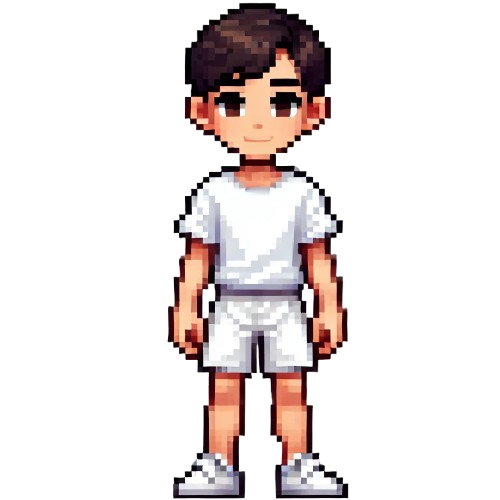
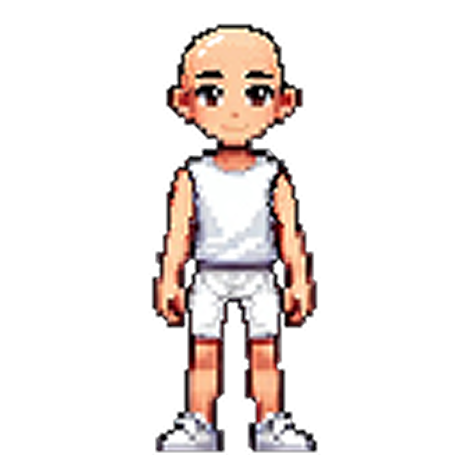
feat : 상/하의 입기 완료

Changed region(s): [[0.3077, 0.0, 0.7077, 1.0]]

diff --git a/html/dressup.html b/html/dressup.html
@@ -1,186 +1,194 @@
 <!DOCTYPE html>
 <html lang="ko">
-  <head>
-    <meta charset="UTF-8" />
-    <title>하금티 취준</title>
-    <style>
-      .container {
-        position: relative;
-        width: 400px;
-        height: 600px;
-        border: 1px solid #ccc;
-        background-color: #f9f9f9;
-        margin-bottom: 20px;
-      }
-      .character {
-        width: 100%;
-        height: 100%;
-      }
-      /* 드랍 존: 캐릭터 컨테이너 내부에 상의와 하의 영역을 고정 */
-      .drop-zone {
-        position: absolute;
-        width: 100%;
-        height: 50%;
-        left: 0;
-      }
-      #dropZoneTop {
-        top: 0;
-      }
-      #dropZoneBottom {
-        top: 50%;
-      }
-      /* 드랍 영역 오버레이 (시각적 도움) */
-      .drop-zone-overlay {
-        position: absolute;
-        width: 100%;
-        height: 100%;
-        border: 2px dashed #ff0000;
-        box-sizing: border-box;
-        pointer-events: none;
-        opacity: 0.3;
-      }
-      .clothes-panel {
-        margin-top: 20px;
-      }
-      .clothes {
-        width: 100px;
-        cursor: grab;
-        margin-right: 10px;
-      }
-      /* 드랍된 의상 이미지 스타일 */
-      .dropped-clothes {
-        position: absolute;
-      }
-      .reset-button {
-        margin-top: 20px;
-        padding: 10px 20px;
-        font-size: 16px;
-        background-color: #ff6b6b;
-        color: white;
-        border: none;
-        border-radius: 5px;
-        cursor: pointer;
-      }
-      .reset-button:hover {
-        background-color: #ff5252;
-      }
-    </style>
-  </head>
-  <body>
-    <h1>하금티 면접 옷 입히기</h1>
-    <!-- 캐릭터 컨테이너 -->
-    <div class="container" id="characterContainer">
-      <img src="../assets/cloth/character.png" alt="캐릭터" class="character" />
-      <!-- 상의 드랍 존 (상단 고정 영역) -->
-      <div class="drop-zone" id="dropZoneTop" data-type="top">
-        <div class="drop-zone-overlay"></div>
-      </div>
-      <!-- 하의 드랍 존 (하단 고정 영역) -->
-      <div class="drop-zone" id="dropZoneBottom" data-type="bottom">
-        <div class="drop-zone-overlay"></div>
-      </div>
-    </div>
 
-    <!-- 의상 패널: 상의와 하의 이미지를 각각 지정 -->
-    <div class="clothes-panel">
-      <!-- 상의: shirt1.png, shirt2.png, ... -->
-      <img
-        src="../assets/cloth/shirt1.png"
-        alt="상의1"
-        class="clothes"
-        draggable="true"
-        data-type="top"
-      />
-      <img
-        src="../assets/cloth/shirt2.png"
-        alt="상의2"
-        class="clothes"
-        draggable="true"
-        data-type="top"
-      />
+<head>
+  <meta charset="UTF-8" />
+  <title>하금티 취준</title>
+  <style>
+    .container {
+      position: relative;
+      width: 400px;
+      height: 600px;
+      border: 1px solid #ccc;
+      background-color: #f9f9f9;
+      margin-bottom: 20px;
+    }
 
-      <!-- 하의: pants1.png, pants2.png, ... -->
-      <img
-        src="../assets/cloth/pants1.png"
-        alt="하의1"
-        class="clothes"
-        draggable="true"
-        data-type="bottom"
-      />
-      <img
-        src="../assets/cloth/pants2.png"
-        alt="하의2"
-        class="clothes"
-        draggable="true"
-        data-type="bottom"
-      />
-    </div>
+    .character {
+      position: absolute;
+      z-index: 0;
+    }
 
-    <!-- 초기화 버튼 추가 -->
-    <button class="reset-button" id="resetButton">초기화</button>
+    .clothes {
+      cursor: grab;
+      margin-right: 10px;
+    }
 
-    <script>
-      // 각 의상 이미지에 드래그 시작 이벤트 등록, src와 data-type을 함께 전달
-      const clothesItems = document.querySelectorAll(".clothes");
-      clothesItems.forEach((item) => {
-        item.addEventListener("dragstart", function (e) {
-          const data = {
-            src: e.target.src,
-            type: e.target.dataset.type,
-          };
-          e.dataTransfer.setData("application/json", JSON.stringify(data));
-        });
+    .clothes.dragging {
+      opacity: 0.5;
+    }
+
+    .clothes.dropped {
+      position: absolute;
+      transform: translateX(-50%);
+    }
+
+    .clothes.dropped.shirt1 {
+      top: 20%;
+      left: 61%;
+      z-index: 2;
+    }
+
+    .clothes.dropped.shirt2 {
+      top: 20%;
+      left: 59%;
+      z-index: 2;
+    }
+
+    .clothes.dropped.shirt3 {
+      top: 20%;
+      left: 58%;
+      z-index: 2;
+    }
+
+    .clothes.dropped.pants1 {
+      top: 43%;
+      left: 58%;
+      z-index: 1;
+    }
+
+    .clothes.dropped.pants2 {
+      top: 40%;
+      left: 57%;
+      z-index: 1;
+    }
+
+    .clothes.dropped.pants3 {
+      top: 42%;
+      left: 58%;
+      z-index: 1;
+    }
+
+    .clothes-panel {
+      margin-top: 20px;
+    }
+
+    .reset-button {
+      margin-top: 20px;
+      padding: 10px 20px;
+      font-size: 16px;
+      background-color: #ff6b6b;
+      color: white;
+      border: none;
+      border-radius: 5px;
+      cursor: pointer;
+    }
+
+    .reset-button:hover {
+      background-color: #ff5252;
+    }
+  </style>
+</head>
+
+<body>
+  <h1>하금티 취준</h1>
+  <div class="container" id="characterContainer">
+    <img src="../assets/cloth/character.png" alt="캐릭터" class="character" />
+  </div>
+
+  <div class="clothes-panel">
+    <h3>상의</h3>
+    <img src="../assets/cloth/shirt1.png" alt="상의1" class="clothes" draggable="true" />
+    <img src="../assets/cloth/shirt2.png" alt="상의2" class="clothes" draggable="true" />
+    <img src="../assets/cloth/shirt3.png" alt="상의3" class="clothes" draggable="true" />
+    <h3>하의</h3>
+    <img src="../assets/cloth/pants1.png" alt="하의1" class="clothes" draggable="true" />
+    <img src="../assets/cloth/pants2.png" alt="하의2" class="clothes" draggable="true" />
+    <img src="../assets/cloth/pants3.png" alt="하의3" class="clothes" draggable="true" />
+  </div>
+
+  <button class="reset-button" id="resetButton">초기화</button>
+
+  <script>
+    const clothesItems = document.querySelectorAll('.clothes');
+    const container = document.querySelector('.container');
+    const resetButton = document.getElementById('resetButton');
+
+    // 초기화 버튼 이벤트 리스너
+    resetButton.addEventListener('click', () => {
+      const droppedClothes = container.querySelectorAll('.dropped');
+      droppedClothes.forEach(clothes => clothes.remove());
+    });
+
+    clothesItems.forEach(clothes => {
+      clothes.addEventListener('dragstart', (e) => {
+        clothes.classList.add('dragging');
       });
 
-      // 각 드랍 존에 드래그 오버 및 드랍 이벤트 처리
-      const dropZones = document.querySelectorAll(".drop-zone");
-      dropZones.forEach((zone) => {
-        zone.addEventListener("dragover", function (e) {
-          e.preventDefault();
-        });
-
-        zone.addEventListener("drop", function (e) {
-          e.preventDefault();
-          const data = JSON.parse(e.dataTransfer.getData("application/json"));
-          // 의상의 타입과 드랍 존의 타입이 일치하면
-          if (data.type === zone.dataset.type) {
-            // 기존에 배치된 의상이 있다면 삭제
-            const existing = zone.querySelector(".dropped-clothes");
-            if (existing) {
-              existing.remove();
-            }
-            // 새 의상 이미지 생성
-            const newClothes = document.createElement("img");
-            newClothes.src = data.src;
-            newClothes.classList.add("dropped-clothes");
-            // 고정된 위치에 배치: 상의는 상단, 하의는 하단에 중앙 정렬
-            if (zone.dataset.type === "top") {
-              newClothes.style.top = "20px";
-              newClothes.style.left = "50%";
-              newClothes.style.transform = "translateX(-50%)";
-            } else if (zone.dataset.type === "bottom") {
-              newClothes.style.bottom = "20px";
-              newClothes.style.left = "50%";
-              newClothes.style.transform = "translateX(-50%)";
-            }
-            zone.appendChild(newClothes);
-          } else {
-            alert(
-              "이 영역에는 " +
-                (zone.dataset.type === "top" ? "상의" : "하의") +
-                "만 배치할 수 있습니다."
-            );
-          }
-        });
+      clothes.addEventListener('dragend', (e) => {
+        clothes.classList.remove('dragging');
       });
+    });
 
-      // 초기화 버튼 기능 구현
-      document
-        .getElementById("resetButton")
-        .addEventListener("click", function () {
-          const droppedClothes = document.querySelectorAll(".dropped-clothes");
-          droppedClothes.forEach((clothes) => clothes.remove());
-        });
-    </script>
-  </body>
+    container.addEventListener('dragover', (e) => {
+      e.preventDefault();
+    });
+
+    container.addEventListener('drop', (e) => {
+      e.preventDefault();
+
+      // 드롭된 위치가 컨테이너 내부인지 확인
+      const rect = container.getBoundingClientRect();
+      if (e.clientX >= rect.left && e.clientX <= rect.right &&
+        e.clientY >= rect.top && e.clientY <= rect.bottom) {
+
+        // 드래그된 의상 요소 찾기
+        const draggedClothes = document.querySelector('.dragging');
+        if (!draggedClothes) return;
+
+        // 새로운 이미지 요소 생성
+        const newClothes = document.createElement('img');
+        newClothes.src = draggedClothes.src;
+        newClothes.classList.add('clothes', 'dropped');
+
+        // 의상 종류에 따라 다른 클래스 추가
+        if (draggedClothes.src.includes('shirt1')) {
+          newClothes.classList.add('shirt1');
+          // 기존 상의 제거
+          const existingShirts = container.querySelectorAll('.dropped.shirt1, .dropped.shirt2, .dropped.shirt3');
+          existingShirts.forEach(shirt => shirt.remove());
+        } else if (draggedClothes.src.includes('shirt2')) {
+          newClothes.classList.add('shirt2');
+          // 기존 상의 제거
+          const existingShirts = container.querySelectorAll('.dropped.shirt1, .dropped.shirt2, .dropped.shirt3');
+          existingShirts.forEach(shirt => shirt.remove());
+        } else if (draggedClothes.src.includes('shirt3')) {
+          newClothes.classList.add('shirt3');
+          // 기존 상의 제거
+          const existingShirts = container.querySelectorAll('.dropped.shirt1, .dropped.shirt2, .dropped.shirt3');
+          existingShirts.forEach(shirt => shirt.remove());
+        } else if (draggedClothes.src.includes('pants1')) {
+          newClothes.classList.add('pants1');
+          // 기존 하의 제거
+          const existingPants = container.querySelectorAll('.dropped.pants1, .dropped.pants2, .dropped.pants3');
+          existingPants.forEach(pants => pants.remove());
+        } else if (draggedClothes.src.includes('pants2')) {
+          newClothes.classList.add('pants2');
+          // 기존 하의 제거
+          const existingPants = container.querySelectorAll('.dropped.pants1, .dropped.pants2, .dropped.pants3');
+          existingPants.forEach(pants => pants.remove());
+        } else if (draggedClothes.src.includes('pants3')) {
+          newClothes.classList.add('pants3');
+          // 기존 하의 제거
+          const existingPants = container.querySelectorAll('.dropped.pants1, .dropped.pants2, .dropped.pants3');
+          existingPants.forEach(pants => pants.remove());
+        }
+
+        // 컨테이너에 추가
+        container.appendChild(newClothes);
+      }
+    });
+  </script>
+</body>
+
 </html>
